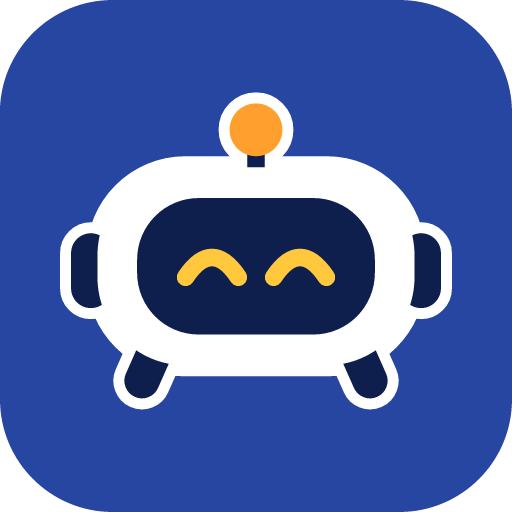
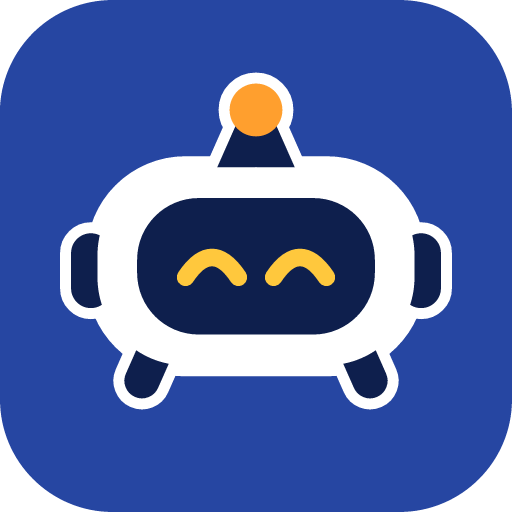
사이트 소개 「할 수 있는 것」 항목별 아이콘 + 로고 로봇 안테나를 로보티콘처럼(A자 다리 꼭짓점에 공)
- 소개 본문 글머리 목록: 항목 머리 낱말로 아이콘 고름(말풍선·학사모·사람들·쇼핑백·웃는 얼굴, 없으면 반짝)
- 로고 4종·사이트 아이콘·링크 미리보기 원본: 막대 안테나 대신 다리가 꼭짓점(100,42)에서 머리 뒤로, 공이 꼭대기를 덮어 A 어깨만 보이게

Changed region(s): [[0.4062, 0.125, 0.5938, 0.3438]]

diff --git a/apps/user-web/app/pages/about.vue b/apps/user-web/app/pages/about.vue
@@ -169,6 +169,40 @@ const community = computed(() => {
 /** 로그인 뒤 이 화면으로 돌아온다 */
 const loginTarget = computed(() => UtilRedirect.toLogin(route.fullPath));
 
+/**
+ * 「할 수 있는 것」 같은 본문 글머리 목록 — 항목마다 뜻에 맞는 아이콘(사용자 2026-11-13 「각 항목에 맞는 아이콘 넣어」).
+ * 본문은 관리자가 고치는 HTML 이라 차례가 아니라 항목 머리(첫 굵은 글자, 없으면 항목 글 전체)의 낱말로 고른다. 맞는 낱말이 없으면 반짝 아이콘.
+ * 위에서부터 처음 맞는 줄을 쓴다(「이야기 나누기」 설명에 「게시판」이 있어도 머리 낱말이 먼저 맞게 머리를 먼저 본다).
+ */
+const LIST_ICONS: readonly { icon: string; words: RegExp }[] = [
+    { icon: 'pi pi-comments', words: /이야기|대화|수다|나누|게시판|talk|chat|share|discuss/i },
+    { icon: 'pi pi-graduation-cap', words: /배우|알려|강좌|팁|사용기|노하우|learn|tip|guide|review/i },
+    { icon: 'pi pi-users', words: /모이|모임|소모임|함께|meet|group|together/i },
+    { icon: 'pi pi-shopping-bag', words: /사기|쇼핑|핫딜|공동구매|장터|거래|shop|deal|buy|market/i },
+    { icon: 'pi pi-face-smile', words: /표현|로보티콘|이모티콘|감정|express|emoticon|emoji/i },
+];
+const LIST_ICON_FALLBACK = 'pi pi-sparkles';
+
+/** 정화된 본문 HTML 의 맨 위 글머리 목록 항목 앞에 아이콘 칩(장식, 읽지 않음)을 넣는다 — 화면이 SPA(`ssr: false`)라 브라우저 DOMParser 를 쓴다 */
+function withListIcons(source: string): string {
+    const doc = new DOMParser().parseFromString(`<div>${source}</div>`, 'text/html');
+    const root = doc.body.firstElementChild;
+    if (!root) return source;
+    for (const li of root.querySelectorAll(':scope > ul > li')) {
+        const head = li.querySelector('strong')?.textContent?.trim() || '';
+        const text = li.textContent ?? '';
+        const icon = LIST_ICONS.find((item) => head && item.words.test(head))?.icon ?? LIST_ICONS.find((item) => item.words.test(text))?.icon ?? LIST_ICON_FALLBACK;
+        const chip = doc.createElement('span');
+        chip.className = 'about-li-icon';
+        chip.setAttribute('aria-hidden', 'true');
+        const i = doc.createElement('i');
+        i.className = icon;
+        chip.appendChild(i);
+        li.prepend(chip);
+    }
+    return root.innerHTML;
+}
+
 const html = ref<string | null>(null);
 const status = ref<'loading' | 'error' | 'ready'>('loading');
 const errorMessage = ref('');
@@ -178,7 +212,7 @@ async function load(): Promise<void> {
     errorMessage.value = '';
     try {
         const res = await api.about();
-        html.value = res.html?.trim() ? res.html : null;
+        html.value = res.html?.trim() ? withListIcons(res.html) : null;
         status.value = 'ready';
     } catch (e) {
         html.value = null;
@@ -252,7 +286,7 @@ onMounted(() => void load());
     border-radius: 9999px;
     background: var(--p-primary-color);
 }
-/* 글머리 목록 — 한 줄에 한 항목(여러 열로 나누면 설명이 좁아져 안 읽힌다 — 사용자 2026-11-13), 항목마다 반짝 아이콘 칩(PrimeIcons `pi-sparkles` 글자, 읽지 않게 대체 글자 빈칸) */
+/* 글머리 목록 — 한 줄에 한 항목(여러 열로 나누면 설명이 좁아져 안 읽힌다 — 사용자 2026-11-13), 항목마다 뜻에 맞는 아이콘 칩(`withListIcons` 가 넣는 `.about-li-icon`) */
 .about-body > :deep(ul) {
     display: grid;
     grid-template-columns: minmax(0, 1fr);
@@ -264,28 +298,27 @@ onMounted(() => void load());
 .about-body > :deep(ul > li) {
     position: relative;
     margin: 0;
-    padding: 0.875rem 1rem 0.875rem 3rem;
+    padding: 0.875rem 1rem 0.875rem 3.75rem;
     border: 1px solid color-mix(in srgb, var(--p-primary-color) 18%, transparent);
     border-radius: 0.875rem;
     background: color-mix(in srgb, var(--p-primary-color) 5%, transparent);
     line-height: 1.6;
 }
-.about-body > :deep(ul > li)::before {
-    content: '\ea21';
-    content: '\ea21' / '';
+.about-body > :deep(ul > li > .about-li-icon) {
     position: absolute;
     left: 0.875rem;
-    top: 0.875rem;
+    top: 0.75rem;
     display: grid;
     place-items: center;
-    width: 1.5rem;
-    height: 1.5rem;
-    border-radius: 9999px;
+    width: 2.25rem;
+    height: 2.25rem;
+    border-radius: 0.75rem;
     background: var(--p-primary-color);
     color: var(--p-primary-contrast-color);
-    font-family: 'primeicons';
-    font-size: 0.75rem;
-    font-style: normal;
+    box-shadow: 0 3px 8px color-mix(in srgb, var(--p-primary-color) 28%, transparent);
+}
+.about-body > :deep(ul > li > .about-li-icon > i) {
+    font-size: 1.05rem;
     line-height: 1;
 }
 /* ④ 행동 단추 상자 */

diff --git a/docs/features/site-logo-variants-contract.md b/docs/features/site-logo-variants-contract.md
@@ -4,7 +4,7 @@
 지금의 단일 로고(`site-settings-contract.md` 의 `logo_file_id`·`logo_svg`)를 넓히는 일이다. 화면은 목업(`// MOCK:`)으로 확정됐고, 서버와 API는 아직 없다.
 
 ## 기본 로고(디자인 확정 — 사용자 결정 2026-11-06)
-- 심볼: 아이로빗 아바타(`robotikon/src/parts.mjs` 좌표) 머리와 짧은 다리를 그린다. 웃는 눈(^^), 흰 테두리, 남색 귀를 쓰고 안테나는 줄기 절반 길이다. 다리는 원래 A자 다리와 같은 기울기로 머리 아래로만 짧게 낸다(바닥 y=159, 원본 164 — 사용자 결정 2026-11-07).
+- 심볼: 아이로빗 아바타(`robotikon/src/parts.mjs` 좌표) 머리와 짧은 다리를 그린다. 웃는 눈(^^), 흰 테두리, 남색 귀를 쓴다. 안테나·다리는 로보티콘과 같은 A자 — 다리가 꼭짓점(100,42)에서 머리 뒤로 내려가고, 안테나 공(100,36)이 꼭짓점에 얹혀 꼭대기를 가려 공 아래 A 어깨만 살짝 보인다(사용자 2026-11-13 「로보티콘처럼, A 꼭대기는 너무 보이지 않게, 그래도 A 처럼」 — 예전 세운 막대 안테나 대신). 다리 바닥 y=159(원본 164). 사이트 아이콘·링크 미리보기 원본(`design/brand/`)도 같은 모양.
   - 밝은 바탕용은 머리가 파랑 `#2F6BFF`, 어두운 바탕용은 흰색이다.
 - 글자는 개구체(Gaegu 700)를 쓰고 윤곽을 0.5만큼 「살짝 굵게」 한다(더 굵게는 탈락). 글자는 패스로 굳혀 두어서 웹 글꼴이 필요 없다.
   - 한글: 「로보**얌**」 옆에 작은 「Irobit」을 붙인다(R 대문자).
